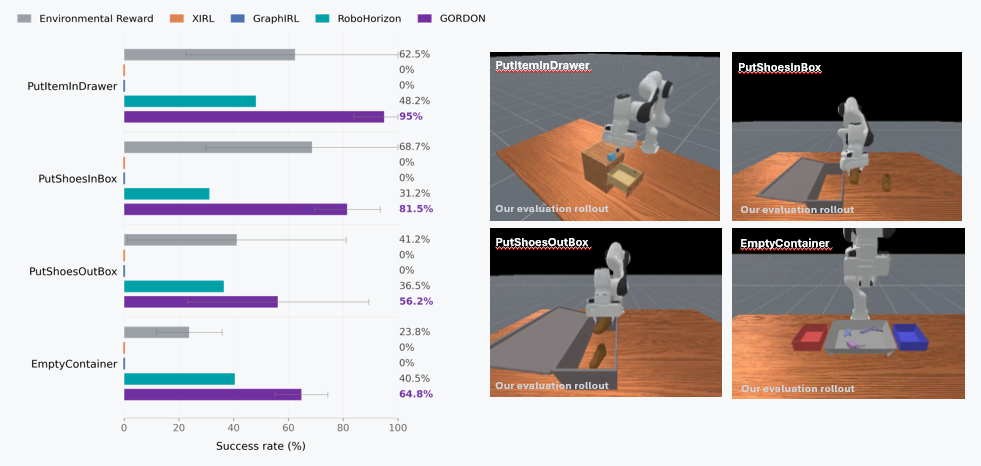
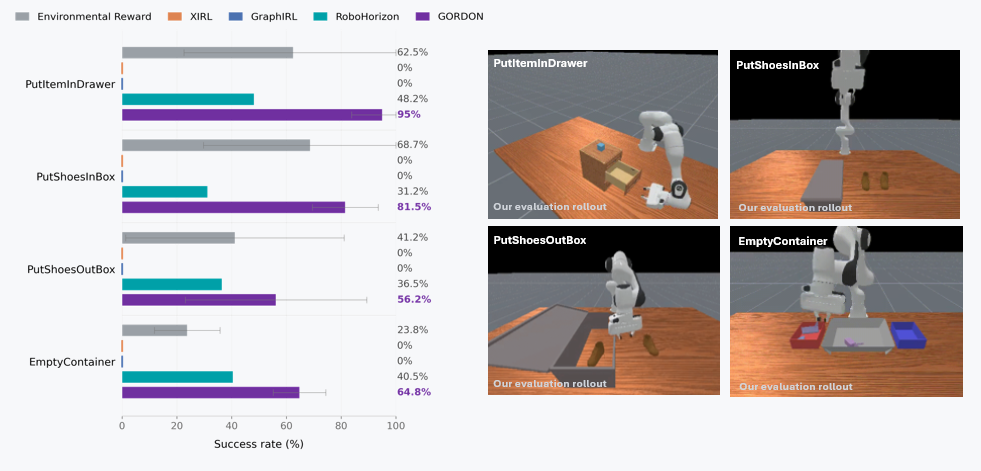
add new results and back to home button

diff --git a/docs/css/style.css b/docs/css/style.css
@@ -51,7 +51,37 @@ img, video { max-width: 100%; display: block; }
   border-bottom: 1px solid var(--border);
 }
 
-.brand { font-weight: 800; text-decoration: none; }
+.header-start {
+  display: flex;
+  align-items: center;
+  gap: 0.85rem;
+  min-width: 0;
+  flex: 1;
+}
+
+.home-link {
+  flex-shrink: 0;
+  text-decoration: none;
+  font-size: 0.88rem;
+  font-weight: 700;
+  color: var(--muted);
+  border: 1px solid var(--border);
+  border-radius: 999px;
+  padding: 0.45rem 0.75rem;
+  background: var(--surface);
+  white-space: nowrap;
+}
+
+.home-link:hover { color: var(--accent); }
+
+.brand {
+  font-weight: 800;
+  text-decoration: none;
+  min-width: 0;
+  overflow: hidden;
+  text-overflow: ellipsis;
+  white-space: nowrap;
+}
 .nav { display: flex; flex-wrap: wrap; gap: 0.8rem; color: var(--muted); font-size: 0.95rem; }
 .nav a { text-decoration: none; }
 .nav a:hover { color: var(--accent); }
@@ -174,8 +204,17 @@ code { font-family: ui-monospace, SFMono-Regular, Menlo, Monaco, Consolas, monos
   border-top: 1px solid var(--border);
 }
 
+.footer-home-link {
+  color: var(--accent);
+  font-weight: 700;
+  text-decoration: none;
+}
+
+.footer-home-link:hover { text-decoration: underline; }
+
 @media (max-width: 820px) {
   .site-header { align-items: flex-start; }
+  .site-header .brand { display: none; }
   .nav { display: none; }
   .cards-3, .gallery { grid-template-columns: 1fr; }
   .section { margin: 2.7rem 0; }

diff --git a/docs/js/main.js b/docs/js/main.js
@@ -130,6 +130,24 @@ function initTheme() {
   });
 }
 
+function renderPersonalPage() {
+  const page = project.personalPage;
+  const headerLink = $("#personal-page");
+  const footerEl = $("#footer-personal");
+  if (!page?.url) {
+    if (headerLink) headerLink.style.display = "none";
+    if (footerEl) footerEl.textContent = "";
+    return;
+  }
+  if (headerLink) {
+    headerLink.href = page.url;
+    headerLink.textContent = page.label || "← Home";
+  }
+  if (footerEl) {
+    footerEl.innerHTML = `<a class="footer-home-link" href="${page.url}">${page.footerLabel || page.label || "← Back to personal webpage"}</a>`;
+  }
+}
+
 function initCopyBibtex() {
   const btn = $("#copy-bibtex");
   if (!btn) return;
@@ -164,6 +182,7 @@ function render() {
   renderResults();
   renderHighlights();
   renderFindings();
+  renderPersonalPage();
   initTheme();
   initCopyBibtex();
 }

diff --git a/docs/js/project-data.js b/docs/js/project-data.js
@@ -7,7 +7,7 @@ window.PROJECT = {
   subtitle: "",
   venue: "Under review",
   authors: [
-    { name: "Andrea Protopapa", url: "", mark: "1" },
+    { name: "Andrea Protopapa", url: "https://andreaprotopapa.github.io/", mark: "1" },
     { name: "Davide Buoso", url: "", mark: "1" },
     { name: "Francesca Pistilli", url: "", mark: "1" },
     { name: "Georgia Chalvatzaki", url: "", mark: "2" },
@@ -18,6 +18,12 @@ window.PROJECT = {
     { mark: "2", text: "Technische Universität Darmstadt, Darmstadt, Germany" }
   ],
   contact: "[email redacted]",
+
+  personalPage: {
+    label: "← Home",
+    footerLabel: "← Back to Andrea Protopapa's homepage",
+    url: "https://andreaprotopapa.github.io/"
+  },
 
   links: [
     { label: "Paper", comingSoon: true, primary: true },

diff --git a/docs/index.html b/docs/index.html
@@ -17,7 +17,10 @@
 </head>
 <body>
   <header class="site-header">
-    <a class="brand" href="#top" aria-label="Go to top">GORDON: Graph-based Object-centric Rewards for Decomposition of Long-Horizon Manipulation</a>
+    <div class="header-start">
+      <a id="personal-page" class="home-link" href="https://andreaprotopapa.github.io/">← Home</a>
+      <a class="brand" href="#top" aria-label="Go to top">GORDON: Graph-based Object-centric Rewards for Decomposition of Long-Horizon Manipulation</a>
+    </div>
     <!-- Minimal release: add nav links as sections go live -->
     <nav class="nav" aria-label="Page sections">
       <a href="#abstract">Abstract</a>
@@ -85,6 +88,7 @@
   </main>
 
   <footer class="footer">
+    <p id="footer-personal"></p>
     <p id="contact"></p>
   </footer>
 </body>